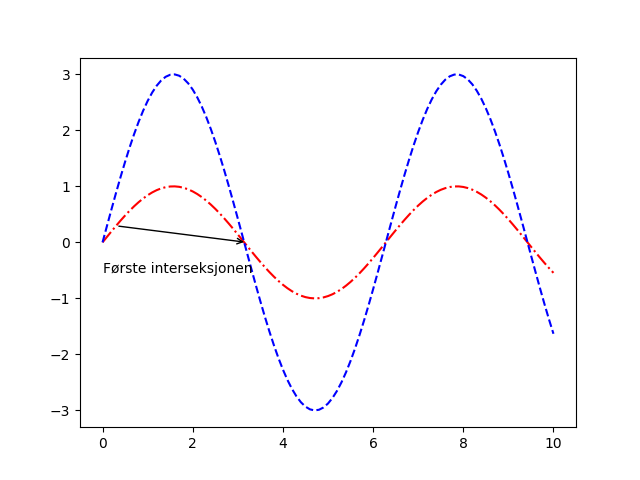
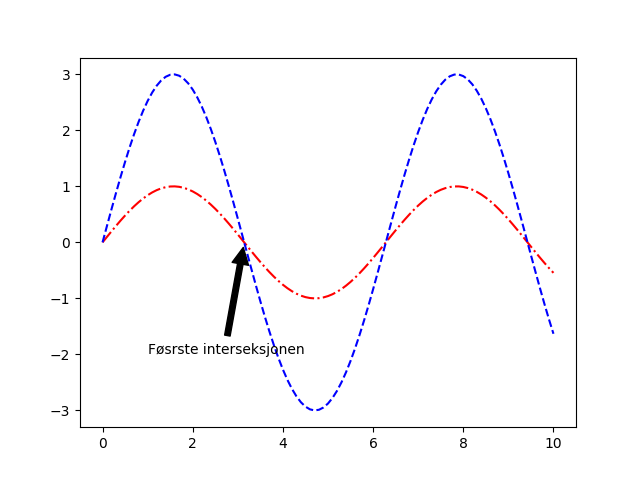
.

Changed region(s): [[0.1562, 0.5, 0.4688, 0.75], [0.1875, 0.4688, 0.3438, 0.5]]

diff --git a/Uke_12/uke_12_oppg_3.py b/Uke_12/uke_12_oppg_3.py
@@ -1,5 +1,5 @@
 import matplotlib.pyplot as plt
-from math import sin
+from math import sin, pi
 
 # liste med x-verdier
 xs = [n / 10 for n in range(101)]
@@ -11,8 +11,7 @@ plt.plot(xs, ys_1, "-.r")
 plt.plot(xs, ys_2, "--b")
 
 # Første interseksjonen
-plt.annotate("", xy=(3.20, 0), xytext=(xs[3], ys_1[3]), arrowprops=dict(arrowstyle="->"))
-plt.text(xs[0], ys_1[-1], "Første interseksjonen")
+plt.annotate("Føsrste interseksjonen", xy = (pi,0), xytext=(1, -2,), arrowprops=dict(facecolor='black', shrink=0.05), )
 
 
 
